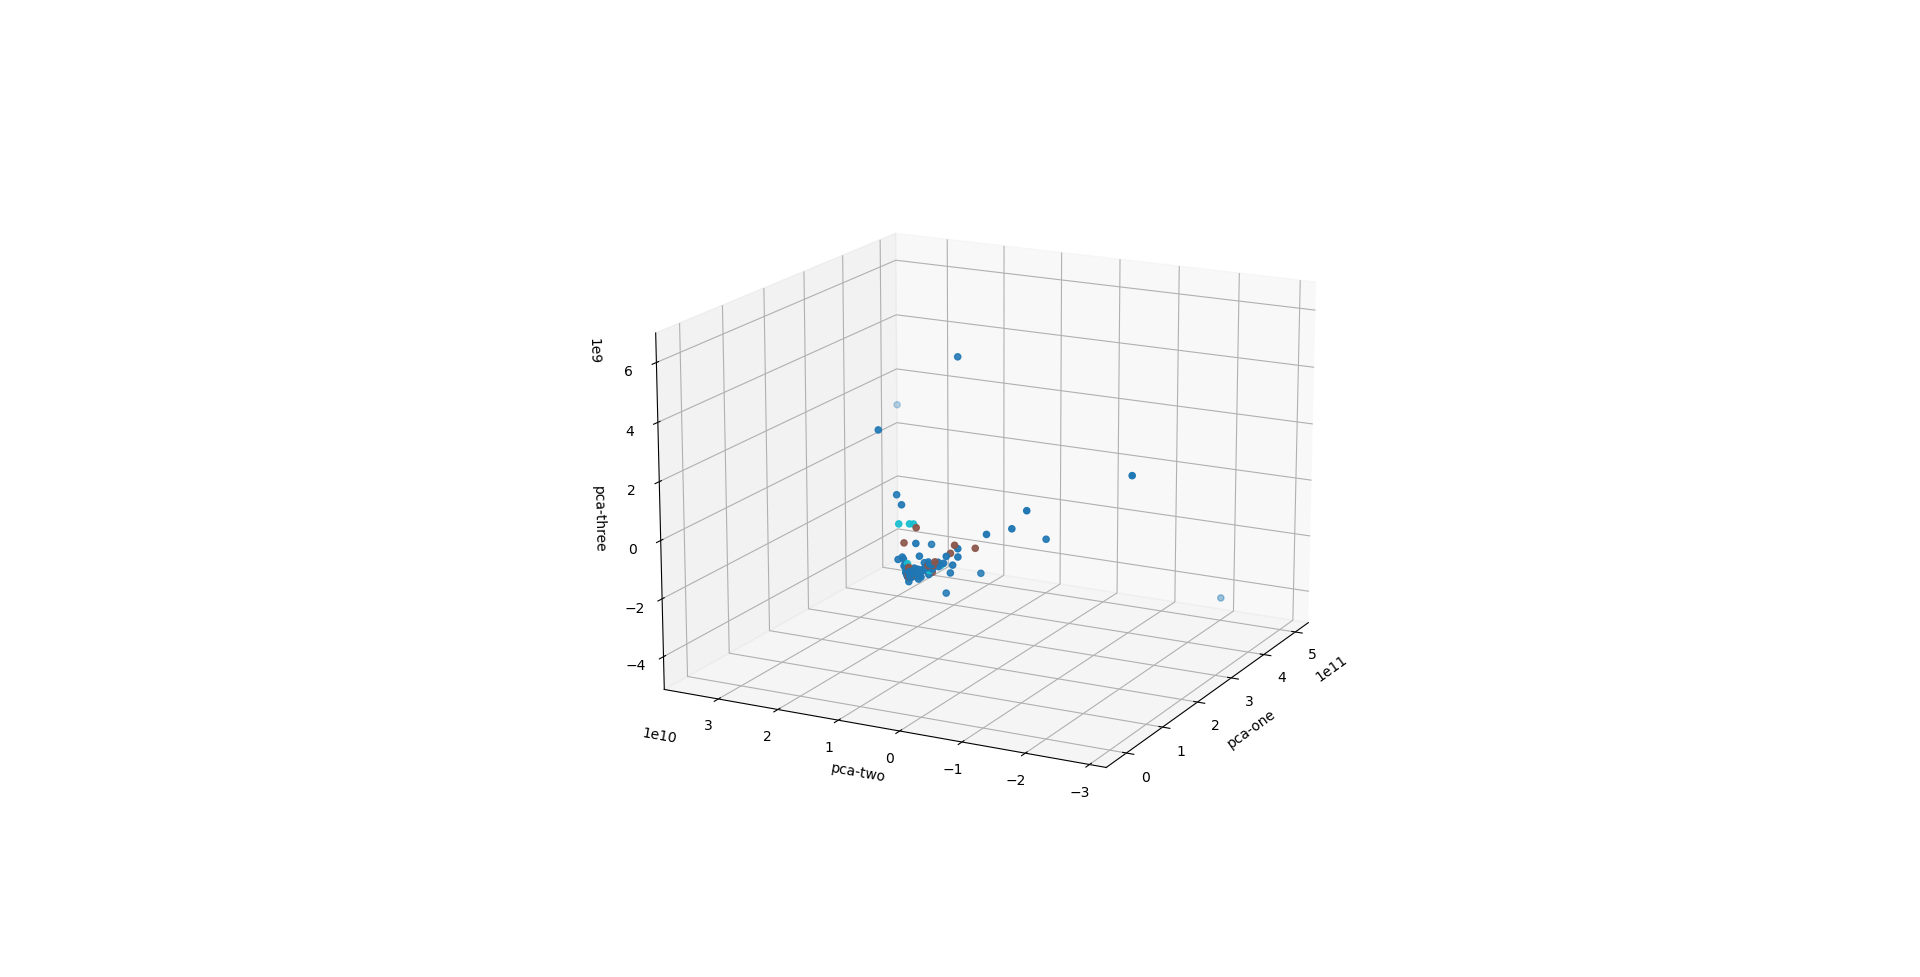
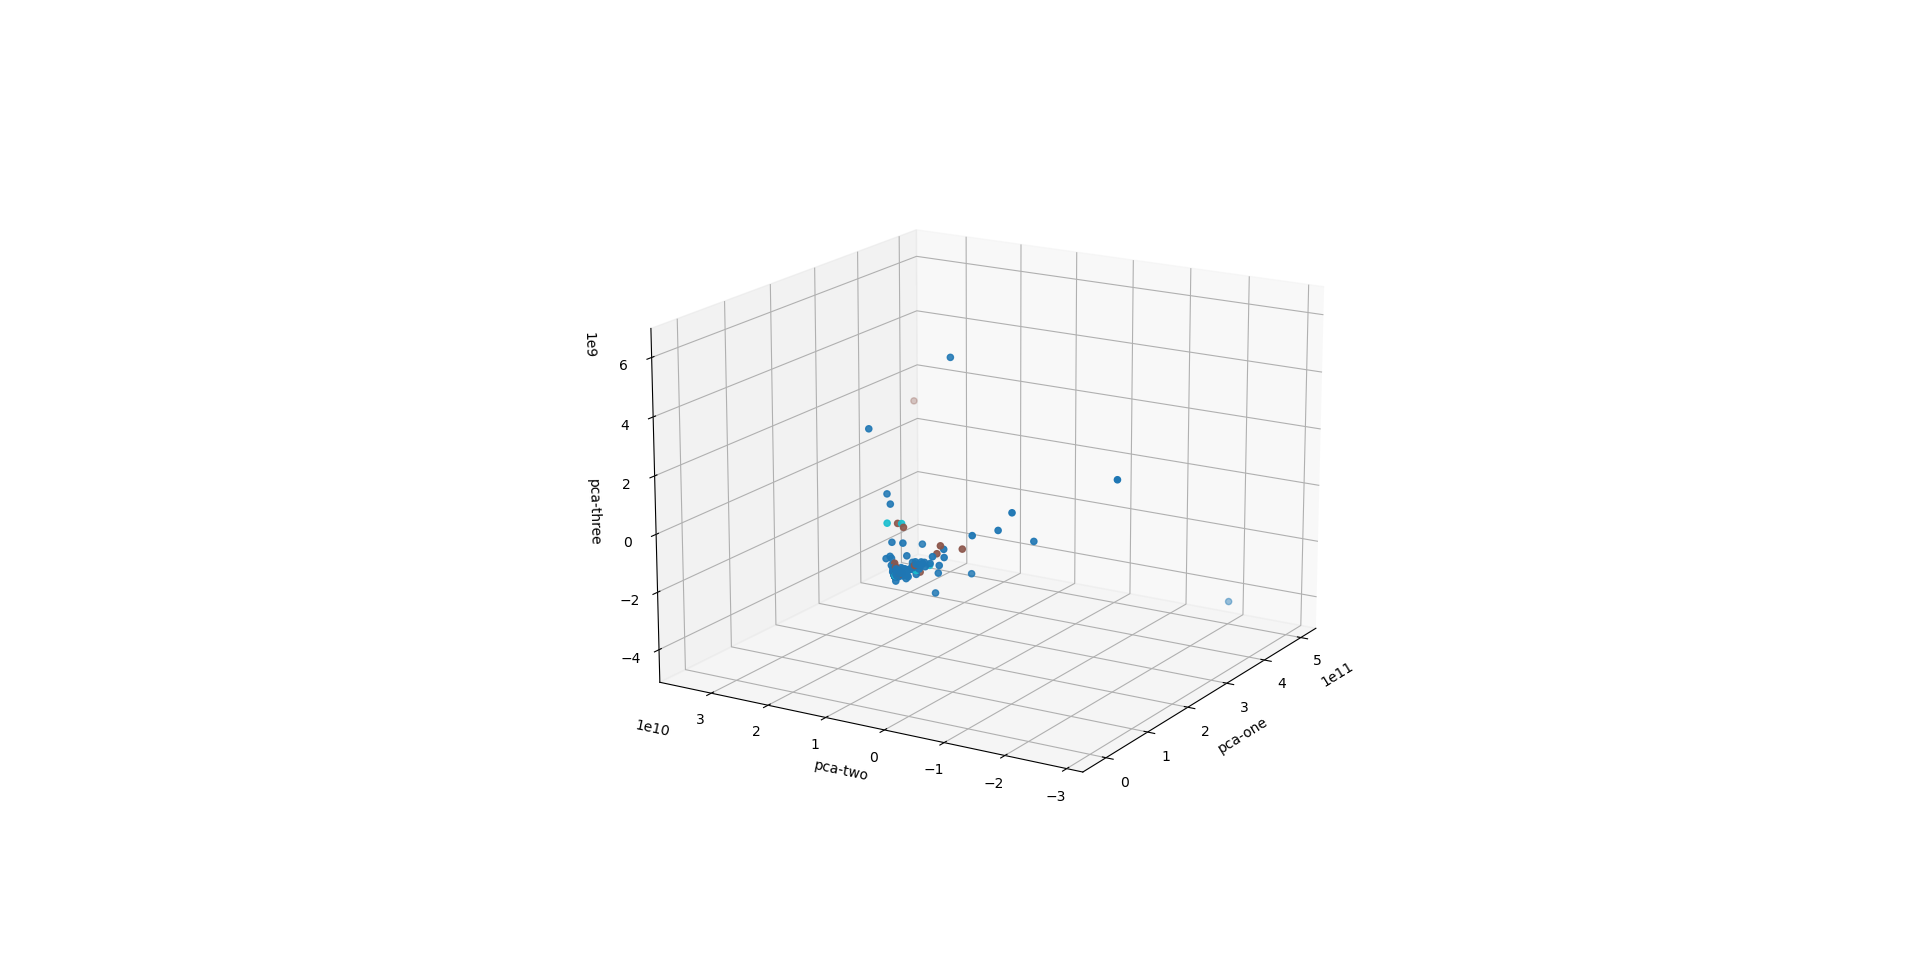
Version 1, plot avec spaghetti code

diff --git a/covid19/clustering/times_series.py b/covid19/clustering/times_series.py
@@ -1,0 +1,207 @@
+# clustering/times_series.py
+
+from ..preprocessing.process import Util
+
+import numpy as np
+import pandas as pd
+import statsmodels.api as sm
+from statsmodels.tsa.stattools import adfuller, kpss, acf, grangercausalitytests
+from statsmodels.graphics.tsaplots import plot_acf, plot_pacf,month_plot,quarter_plot
+from scipy import signal
+import matplotlib.pyplot as plt
+import seaborn as sns
+
+from collections import Counter
+import math
+import pprint
+from datetime import datetime
+import numpy as np
+from scipy.cluster.hierarchy import dendrogram, linkage,fcluster
+from scipy import fftpack
+from scipy.interpolate import CubicSpline
+import time
+import json
+from fastdtw import fastdtw
+import matplotlib.patches as mp
+
+import warnings
+warnings.filterwarnings('ignore')
+
+
+class TimeSeries(Util):
+    def __init__(self, dataset, excel=False, url=False, dataFrame=False, zip=None):
+        super().__init__(dataset, excel=excel, url=url, dataFrame=dataFrame, zip=zip)
+
+    def plot_death(self):
+        fig, ax = plt.subplots(figsize=(15, 6))
+        sns.lineplot(self.df["Date"], self.df.groupby("Date", as_index=False).sum()["Total_cas_remission_j"])
+
+        ax.set_title("Nombre de décès journalier", fontsize = 20, loc='center', fontdict=dict(weight='bold'))
+        ax.set_xlabel("Date", fontsize = 16, fontdict=dict(weight='bold'))
+        ax.set_ylabel("Nombre de cas confirmé", fontsize = 16, fontdict=dict(weight='bold'))
+        plt.tick_params(axis='y', which='major', labelsize=16)
+        plt.tick_params(axis='x', which='major', labelsize=4)
+        plt.xticks(rotation=70)
+        plt.show()
+
+    def plot_seasonality_case(self):
+        fig, ax = plt.subplots(figsize=(15, 6))
+
+        sns.lineplot(self.df["day"], self.df.groupby("Date", as_index=False).sum()["Total_cas_confirmés_j"])
+        ax.set_title("Saisonnalité du COVID-19", fontsize = 20, loc='center', fontdict=dict(weight='bold'))
+        ax.set_xlabel("day", fontsize = 16, fontdict=dict(weight='bold'))
+        ax.set_ylabel('Nombre de cas confirmés', fontsize = 16, fontdict=dict(weight='bold'))
+
+
+        fig, ax = plt.subplots(nrows=1, ncols=2, figsize=(15, 6))
+
+        sns.boxplot(self.df["month"], self.df.groupby("Date", as_index=False).sum()["Total_cas_confirmés_j"], ax=ax[0])
+        ax[0].set_title('Month-wise Box Plot\n(The Trend)', fontsize = 20, loc='center', fontdict=dict(weight='bold'))
+        ax[0].set_xlabel("month", fontsize = 16, fontdict=dict(weight='bold'))
+        ax[0].set_ylabel('Nombre de cas confirmés', fontsize = 16, fontdict=dict(weight='bold'))
+
+        sns.boxplot(self.df["day"], self.df.groupby("Date", as_index=False).sum()["Total_cas_confirmés_j"], ax=ax[1])
+        ax[1].set_title('Day-wise Box Plot\n(The Seasonality)', fontsize = 20, loc='center', fontdict=dict(weight='bold'))
+        ax[1].set_xlabel("day", fontsize = 16, fontdict=dict(weight='bold'))
+        ax[1].set_ylabel('Nombre de cas confirmés', fontsize = 16, fontdict=dict(weight='bold'))
+
+        plt.show()
+
+    def plot_seasonality_death(self):
+        fig, ax = plt.subplots(figsize=(15, 6))
+
+        sns.lineplot(self.df["day"], self.df.groupby("Date", as_index=False).sum()["Total_deces_j"])
+        ax.set_title("Saisonnalité du nombre de décès dû au COVID-19", fontsize = 20, loc='center', fontdict=dict(weight='bold'))
+        ax.set_xlabel("day", fontsize = 16, fontdict=dict(weight='bold'))
+        ax.set_ylabel('Nombre de cas confirmés', fontsize = 16, fontdict=dict(weight='bold'))
+
+
+        fig, ax = plt.subplots(nrows=1, ncols=2, figsize=(15, 6))
+
+        sns.boxplot(self.df["month"], self.df.groupby("Date", as_index=False).sum()["Total_deces_j"], ax=ax[0])
+        ax[0].set_title('Month-wise Box Plot\n(The Trend)', fontsize = 20, loc='center', fontdict=dict(weight='bold'))
+        ax[0].set_xlabel("month", fontsize = 16, fontdict=dict(weight='bold'))
+        ax[0].set_ylabel('Saisonnalité du nombre de décès dû au COVID-19', fontsize = 16, fontdict=dict(weight='bold'))
+
+        sns.boxplot(self.df["day"], self.df.groupby("Date", as_index=False).sum()["Total_deces_j"], ax=ax[1])
+        ax[1].set_title('Day-wise Box Plot\n(The Seasonality)', fontsize = 20, loc='center', fontdict=dict(weight='bold'))
+        ax[1].set_xlabel("day", fontsize = 16, fontdict=dict(weight='bold'))
+        ax[1].set_ylabel("Saisonnalité du nombre de décès dû au COVID-19", fontsize = 16, fontdict=dict(weight='bold'))
+
+        plt.show()
+
+    def plot_seasonality(self):
+        fig, ax = plt.subplots(figsize=(15, 6))
+
+        sns.lineplot(self.df["day"], self.df.groupby("Date", as_index=False).sum()["Total_cas_confirmés_j"], ax=ax)
+        ax.set_ylabel('Nombre de cas confirmés')
+        ax2 = ax.twinx()
+        sns.lineplot(self.df["day"], self.df.groupby("Date", as_index=False).sum()["Total_deces_j"], ax=ax2, color="r")
+        ax2.set_ylabel('Nombre de cdécès', color="r")
+
+        plt.show()
+
+    @staticmethod
+    def run():
+        data = TimeSeries("assets/final.csv.gz", zip="gzip")
+        data.delete_columns(["Pays_Ou_Entites", "alpha-3", "Continent", "Sous_Continent", "Superficie_(En_Milliers_De_Km2)",
+                            "Population_Mi-2019_(En_Millions)", "Projection_De_La_Population_En_2050_(En_Millions)", "Esperance_De_Vie_A_La_Naissance_Hommes_Femmes_(En_Annees)_3",
+                            "Taux_de_natalite_(en_%)", "Taux_de_mortalite(en_%)", "Taux_de_mortalite_infantile_(en_%)", "Unnamed: 0"])
+        data.df["Total_cas_confirmés_j"] = data.df.drop(columns=["Date"], axis=1).groupby("Country/Region", as_index=False).diff()["Total_cas_confirmés"]
+        data.df["Total_deces_j"] = data.df.drop(columns=["Date"], axis=1).groupby("Country/Region", as_index=False).diff()["Total_deces"]
+        data.df["Total_cas_remission_j"] = data.df.drop(columns=["Date"], axis=1).groupby("Country/Region", as_index=False).diff()["Total_cas_remission"]
+        data.df["day"] = pd.DatetimeIndex(data.df["Date"]).day
+        data.df["month"] = pd.DatetimeIndex(data.df["Date"]).month
+        data.delete_nan()
+        # data.plot_seasonality_case()
+        # data.plot_seasonality_death()
+        data.plot_seasonality()
+
+
+class Clustering(Util):
+    def __init__(self, dataset, excel=False, url=False, dataFrame=False, zip=None):
+        super().__init__(dataset, excel=excel, url=url, dataFrame=dataFrame, zip=zip)
+
+    def ComputeDtw_Matrix(self, mat,window=1): #Apply DTW to matrix. Return dissimilarity matrix
+        res=np.zeros((mat.shape[0],mat.shape[0]))
+        nb=res.shape[0]
+        
+        for i in range(nb):
+            for j in range(i):
+                res[i,j]=fastdtw(mat[i],mat[j],window)[0]
+                
+        return (res+res.T)
+
+    def ComputeCurveDerivate_Matrix(self, DF):#retourne la derivee des series temporelles
+        r,c=DF.shape
+        M_derivate=np.zeros((r,len(np.arange(1,c+1))))
+        
+        for i in range(0,r):
+            cs=CubicSpline(np.arange(1,c+1),DF.values[i])
+            M_derivate[i]=cs(np.arange(1,c+1),1)#derivee premiere 
+
+        return pd.DataFrame(M_derivate,columns=np.arange(1,c+1),index=DF.index)
+
+    def ComputeDerivativeSpectrum_Matrix(self, DF): #retourne la matrice des spectres
+        r,c=DF.shape
+        spectre=np.zeros((r,c))
+        
+        for i,sensor in enumerate(DF.values):
+            #Fast Fourier Transfo        
+            spectre[i]=abs(np.fft.fft(sensor))
+            
+        return spectre
+
+
+    def get_indice_individus(self, clust):#renvoie la position des individus de chaque cluster
+        return [list(np.where(clust==elem)[0]) for elem in np.sort(list(Counter(clust)))]
+
+    #def get_individus(clust,data):#renvoie les individus composants chaque cluster
+    #    return [data.iloc[list(np.where(clust==elem)[0])].values for elem in np.sort(list(Counter(clust)))]
+
+    def get_individus(self, clust, data):
+        dic={}
+        for i,classe in enumerate(clust):
+            if str(classe) not in dic.keys():
+                dic[str(classe)]=[]
+            dic[str(classe)].append(data.index[i])
+
+        return (dic)
+
+    def apply_clustering(self, data,k=2,critere="ward",window=1):
+        #derivee    
+        derivees = self.ComputeCurveDerivate_Matrix(data)
+
+        #Fourier
+        spectres = self.ComputeDerivativeSpectrum_Matrix(derivees)
+
+        #DTW
+        dist = self.ComputeDtw_Matrix(spectres,window)
+        Z=linkage(dist,critere)
+        clus=list(fcluster(Z,k,criterion="maxclust"))
+        f=fcluster(Z,k,criterion="maxclust")
+        
+        return clus,Z,f
+
+    @staticmethod
+    def run():
+        colormap=np.array(['blue','#d10a3c','#6f7bbb','#3ac467','#c69942'])
+        data = Clustering("assets/final.csv.gz", zip="gzip")
+        data.delete_columns(["Pays_Ou_Entites", "alpha-3", "Continent", "Sous_Continent", "Superficie_(En_Milliers_De_Km2)",
+                            "Population_Mi-2019_(En_Millions)", "Projection_De_La_Population_En_2050_(En_Millions)", "Esperance_De_Vie_A_La_Naissance_Hommes_Femmes_(En_Annees)_3",
+                            "Taux_de_natalite_(en_%)", "Taux_de_mortalite(en_%)", "Taux_de_mortalite_infantile_(en_%)", "Unnamed: 0"])
+        data.df["Total_cas_confirmés"] = data.df.drop(columns=["Date"], axis=1).groupby("Country/Region", as_index=False).diff()["Total_cas_confirmés"]
+        data.df["Total_deces"] = data.df.drop(columns=["Date"], axis=1).groupby("Country/Region", as_index=False).diff()["Total_deces"]
+        data.df["Total_cas_remission"] = data.df.drop(columns=["Date"], axis=1).groupby("Country/Region", as_index=False).diff()["Total_cas_remission"]
+        data.delete_columns(["Date", "Country/Region"])
+        data.delete_nan()
+        #days k=2
+        start=time.time()
+        cl2,z2,f2=data.apply_clustering(data.df,k=2,window=2)
+        print("temps d'exécution: ",time.time()-start,'s')
+        classes=data.get_individus(cl2,data.df)
+
+        #plot
+        data.df.T.plot(legend=False,color=colormap[cl2] ,title='Clustering 2 groupes',figsize=(7,4))
+        plt.xlabel("Date")
+        plt.ylabel("Conso(kwh)")

diff --git a/covid19/clustering/unsupervised.py b/covid19/clustering/unsupervised.py
@@ -32,21 +32,28 @@ class MyDBSCAN(Util):
     @staticmethod
     def run():
         data = Util("assets/final.csv.gz", zip="gzip")
-        data.delete_columns(["Pays_Ou_Entites", "Date", "alpha-3", "Continent", "Sous_Continent", "Superficie_(En_Milliers_De_Km2)",
+        data.delete_columns(["Pays_Ou_Entites", "alpha-3", "Continent", "Sous_Continent", "Superficie_(En_Milliers_De_Km2)",
                                 "Population_Mi-2019_(En_Millions)", "Projection_De_La_Population_En_2050_(En_Millions)", "Esperance_De_Vie_A_La_Naissance_Hommes_Femmes_(En_Annees)_3",
                                 "Taux_de_natalite_(en_%)", "Taux_de_mortalite(en_%)", "Taux_de_mortalite_infantile_(en_%)"])
+        data.df["Total_cas_confirmés"] = data.df.drop(columns=["Date"], axis=1).groupby("Country/Region", as_index=False).diff()["Total_cas_confirmés"]
+        data.df["Total_deces"] = data.df.drop(columns=["Date"], axis=1).groupby("Country/Region", as_index=False).diff()["Total_deces"]
+        data.df["Total_cas_remission"] = data.df.drop(columns=["Date"], axis=1).groupby("Country/Region", as_index=False).diff()["Total_cas_remission"]
         data.aggregate_sum(["Country/Region"], True)
         data.delete_columns("Unnamed: 0")
         data.df["Fatality_Rate"] = (data.df["Total_deces"] / data.df["Total_cas_confirmés"]) * 100
-        # dataPrincipal = MyPCA(data.df, 3, dataFrame=True)
         data.df["value"] = data.df.apply(lambda row: label_country(row), axis=1)
-        data.df = data.df.astype({"value": int})
-        dataTSNE = T_SNE(data.df, dataFrame=True)
+        dataPrincipal = MyPCA(data.df, 3, dataFrame=True)
+        dataPrincipal.plot()
+        dataPrincipal.plot_3d()
+        print(dataPrincipal.explained_variance())
+        # data.df = data.df.astype({"value": int})
+        # dataTSNE = T_SNE(data.df, dataFrame=True)
+        # dataTSNE.plot()
+        """
         dataReduced = dataTSNE.df[['tsne-2d-one', 'tsne-2d-two']].copy()
         cluster = MyDBSCAN(dataReduced)
         cluster.get_labels()
-        print(cluster)
-        
+        cluster.reset_index()
         data = dict(type = 'choropleth', 
            locations = cluster.df['Country/Region'],
            locationmode = 'country names',
@@ -55,7 +62,8 @@ class MyDBSCAN(Util):
            colorbar = {'title':'groupe'})
         layout = dict(title = 'Covid19 fatality rate', 
                     geo = dict(showframe = False, 
-                            projection = {'type': 'Mercator'}))
+                            projection = {'type': 'mercator'}))
         choromap3 = go.Figure(data = [data], layout=layout)
-        iplot(choromap3)
+        choromap3.show()
+        """
 

diff --git a/covid19/preprocessing/process.py b/covid19/preprocessing/process.py
@@ -44,6 +44,9 @@ class Util:
     def delete_columns(self, columns):
         self.df.drop(columns=columns, axis=1, inplace=True)
 
+    def delete_nan(self):
+        self.df = self.df.dropna()
+
     def delete_duplicate(self, subset=None):
         self.df = self.df.drop_duplicates() if subset is None else self.df.drop_duplicates(subset=subset)
 

diff --git a/covid19/__main__.py b/covid19/__main__.py
@@ -4,6 +4,9 @@ import pandas as pd
 from .preprocessing.process import Util
 from .elasticsearch.loader import Loader
 from .clustering.unsupervised import MyDBSCAN
+from .clustering.times_series import TimeSeries, Clustering
 
 if __name__ == "__main__":
-    MyDBSCAN.run()
+    # MyDBSCAN.run()
+    # TimeSeries.run()
+    Clustering.run()

diff --git a/covid19/__init__.py b/covid19/__init__.py
@@ -3,3 +3,4 @@
 from .preprocessing.process import Util
 from .elasticsearch.loader import Loader
 from .clustering.unsupervised import MyDBSCAN
+from .clustering.times_series import TimeSeries, Clustering
